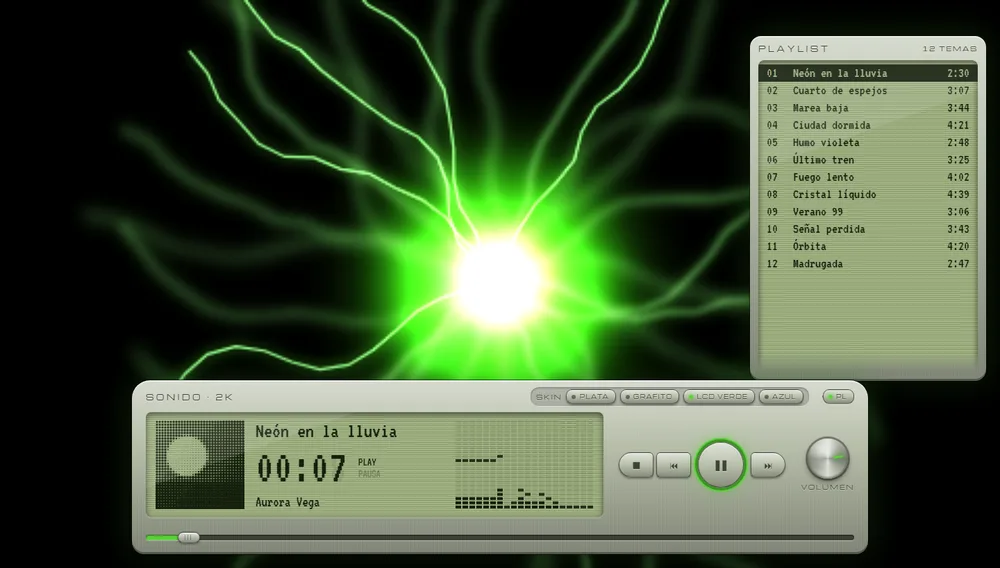
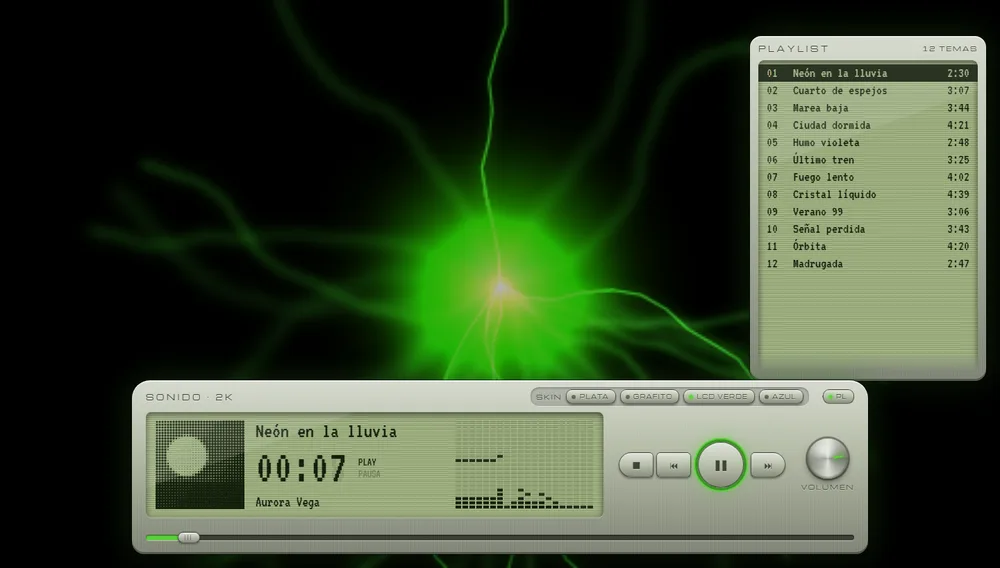
2000s: visualizaciones con menos luz (sin blancos quemados, estela mas corta, brillo 70%)

diff --git a/web/visu2000.js b/web/visu2000.js
@@ -26,12 +26,12 @@ function crearVisu2000(canvas) {
 
   function bateria(t, d, bajo, tono) {
     giro += .004 + bajo * .02;
-    eco(1.035 + bajo * .05, .015 + bajo * .03, .968);
+    eco(1.035 + bajo * .05, .015 + bajo * .03, .945);
     g.globalCompositeOperation = "lighter";
     const N = 64;
     for (let i = 0; i < N; i++) {
       const v = banda(d, i % (N / 2), N / 2), a = i / N * Math.PI * 2 + giro, r0 = 6 + bajo * 10, r1 = r0 + 22 + v * 110;
-      g.strokeStyle = col(tono + Math.sin(i * .35 + t) * 35, 50 + v * 25, .35 + v * .6); g.lineWidth = 1.5 + v * 3;
+      g.strokeStyle = col(tono + Math.sin(i * .35 + t) * 35, 40 + v * 12, .2 + v * .35); g.lineWidth = 1.5 + v * 3;
       g.beginPath(); g.moveTo(CX + Math.cos(a) * r0, CY + Math.sin(a) * r0); g.lineTo(CX + Math.cos(a) * r1, CY + Math.sin(a) * r1); g.stroke();
     }
     g.globalCompositeOperation = "source-over";
@@ -42,15 +42,15 @@ function crearVisu2000(canvas) {
     eco(1.012, .004, .9, "blur(1.4px)");
     g.globalCompositeOperation = "lighter";
     const r = 40 + bajo * 70, nube = g.createRadialGradient(CX, CY, 0, CX, CY, r);
-    nube.addColorStop(0, col(tono, 85, .5 + bajo * .4)); nube.addColorStop(.4, col(tono, 55, .25)); nube.addColorStop(1, col(tono, 30, 0));
+    nube.addColorStop(0, col(tono, 62, .28 + bajo * .25)); nube.addColorStop(.4, col(tono, 48, .16)); nube.addColorStop(1, col(tono, 30, 0));
     g.fillStyle = nube; g.fillRect(0, 0, W, H);
     for (let k = 0; k < 6; k++) {   // humo: manchas que se arremolinan alrededor del centro
       const a = t * .7 + k * 1.05, rr = 25 + 18 * Math.sin(t * 1.3 + k), x = CX + Math.cos(a) * rr, y = CY + Math.sin(a) * rr * .8, s = 18 + bajo * 30;
-      const m = g.createRadialGradient(x, y, 0, x, y, s); m.addColorStop(0, col(tono + 15, 60, .12 + agudo * .15)); m.addColorStop(1, col(tono, 40, 0));
+      const m = g.createRadialGradient(x, y, 0, x, y, s); m.addColorStop(0, col(tono + 15, 50, .08 + agudo * .1)); m.addColorStop(1, col(tono, 40, 0));
       g.fillStyle = m; g.fillRect(x - s, y - s, s * 2, s * 2);
     }
     const n = 1 + Math.round(golpe * 4 + agudo * 2);
-    g.strokeStyle = col(tono + 10, 80, .9); g.shadowColor = col(tono, 60, 1); g.shadowBlur = 6; g.lineWidth = 1.2;
+    g.strokeStyle = col(tono + 10, 64, .7); g.shadowColor = col(tono, 50, .9); g.shadowBlur = 6; g.lineWidth = 1.2;
     for (let k = 0; k < n; k++) {   // relámpagos: líneas quebradas del centro hacia afuera
       let a = Math.random() * Math.PI * 2, x = CX, y = CY; g.beginPath(); g.moveTo(x, y);
       for (let s = 0; s < 14; s++) { a += (Math.random() - .5) * .9; x += Math.cos(a) * 14; y += Math.sin(a) * 14; g.lineTo(x, y); }
@@ -60,11 +60,11 @@ function crearVisu2000(canvas) {
   }
 
   function alquimia(t, onda, bajo, tono) {
-    eco(1.02 + bajo * .02, -.02, .965, "blur(.6px) hue-rotate(4deg)");
+    eco(1.02 + bajo * .02, -.02, .95, "blur(.6px) hue-rotate(4deg)");
     g.globalCompositeOperation = "lighter";
     for (let rep = 0; rep < 2; rep++) {   // la onda real, dos veces en cruz, que la retroalimentación convierte en remolino
       g.save(); g.translate(CX, CY); g.rotate(t * .5 + rep * Math.PI / 2);
-      g.strokeStyle = col(tono + rep * 50, 65, .8); g.lineWidth = 1.6; g.beginPath();
+      g.strokeStyle = col(tono + rep * 50, 55, .6); g.lineWidth = 1.6; g.beginPath();
       for (let i = 0; i < onda.length; i += 4) { const x = (i / onda.length - .5) * W * .7, y = (onda[i] - 128) / 128 * H * .35 * (1 + bajo); i ? g.lineTo(x, y) : g.moveTo(x, y); }
       g.stroke(); g.restore();
     }

diff --git a/web/propiedades.js b/web/propiedades.js
@@ -13,7 +13,7 @@ const Props = (() => {
   const EXTRAS = {
     liquido: [{ id: "deformacion", nombre: "Fuerza de la deformación del vidrio", min: 0, max: 140, def: 70, unidad: "" }],
     headspace: [{ id: "burbujas", nombre: "Cantidad de burbujas", min: 0, max: 80, def: 34, unidad: "" }],
-    dosmil: [{ id: "tunel", nombre: "Brillo de la visualización de fondo", min: 20, max: 130, def: 100, unidad: " %" }],
+    dosmil: [{ id: "tunel", nombre: "Brillo de la visualización de fondo", min: 20, max: 130, def: 70, unidad: " %" }],
     ambiente: [{ id: "desenfoque", nombre: "Desenfoque del fondo", min: 10, max: 140, def: 70, unidad: " px" }],
     pixel: [{ id: "pixel", nombre: "Tamaño de los píxeles", min: 3, max: 9, def: 5, unidad: " px" }],
   };
